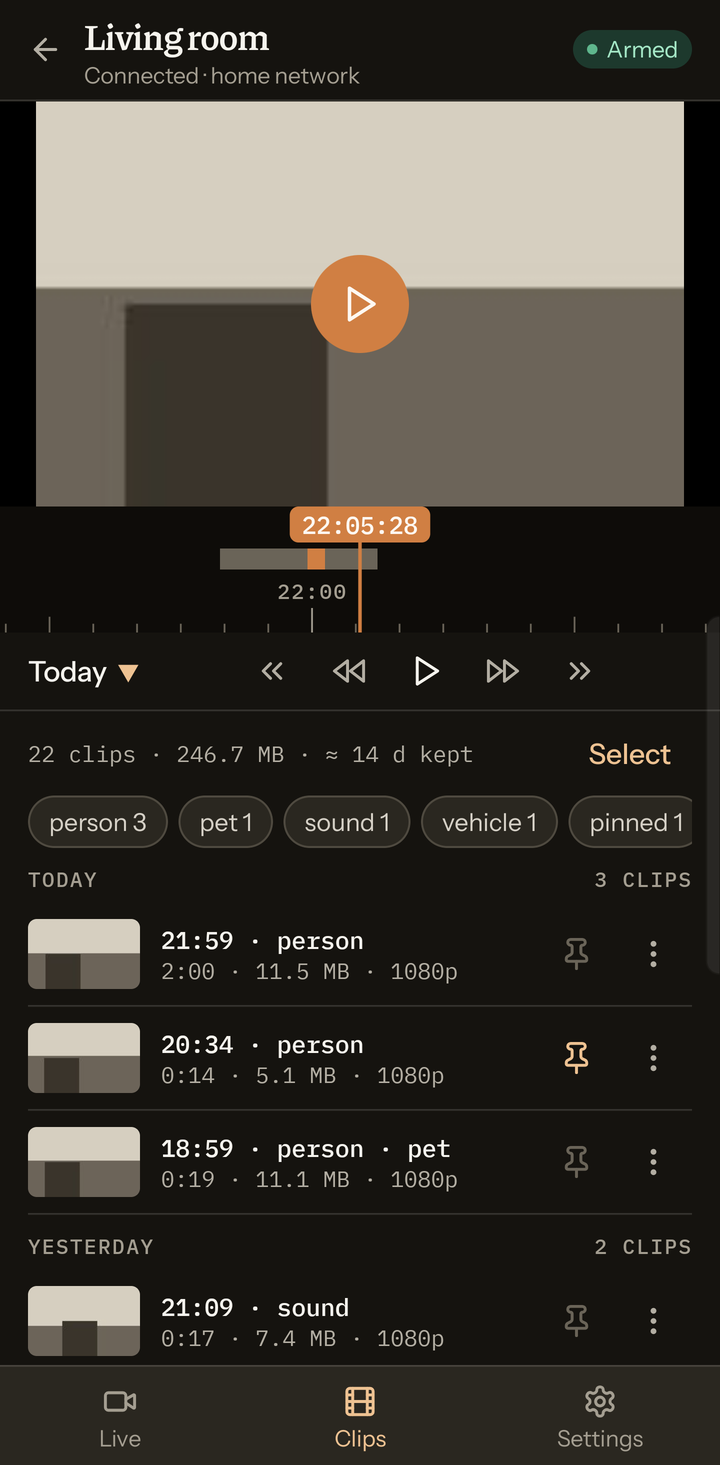
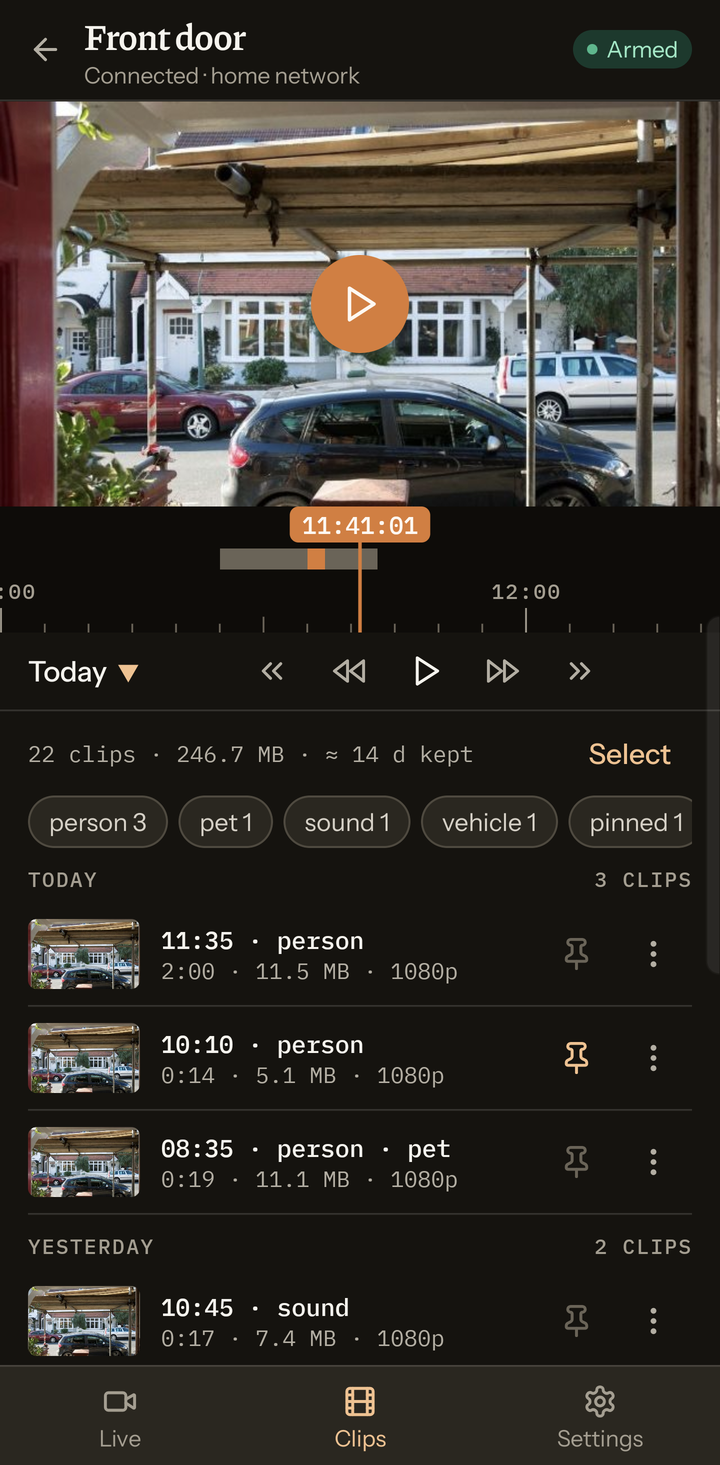
Show a real doorstep scene in the debug screen gallery and README screenshots
The gallery's live view and clip thumbnails draw a CC BY photo (debug assets only)
instead of flat blocks, and the sample camera is renamed Front door.

Claude-Session: https://claude.ai/code/session_01CuN6WwxuSSDywsQhMsyLhZ

diff --git a/app/src/debug/kotlin/com/homecam/app/debug/GalleryActivity.kt b/app/src/debug/kotlin/com/homecam/app/debug/GalleryActivity.kt
@@ -1,8 +1,10 @@
 package com.homecam.app.debug
 
 import android.graphics.Bitmap
+import android.graphics.BitmapFactory
 import android.graphics.Canvas
 import android.graphics.Paint
+import android.graphics.Rect
 import android.os.Bundle
 import androidx.activity.ComponentActivity
 import androidx.activity.compose.setContent
@@ -63,6 +65,7 @@ class GalleryActivity : ComponentActivity() {
     override fun onCreate(savedInstanceState: Bundle?) {
         super.onCreate(savedInstanceState)
         enableEdgeToEdge()
+        scene = assets.open("gallery/front-door.jpg").use(BitmapFactory::decodeStream)
         val screen = intent.getStringExtra("screen") ?: "viewer_home"
         val dark = intent.getBooleanExtra("dark", false)
         setContent {
@@ -77,12 +80,12 @@ private const val NOW = 1_790_917_200_000L
 private const val MINUTE = 60_000L
 
 private val cameras = listOf(
-    CameraEntity("Y1TM-4JVY-9K8F", ByteArray(0), "Living room", "192.168.0.18", 8443, "100.64.0.9", 0, NOW - 90 * MINUTE, System.currentTimeMillis() - 2 * MINUTE, lastArmed = 1, lastRecordingMode = "Continuous"),
+    CameraEntity("Y1TM-4JVY-9K8F", ByteArray(0), "Front door", "192.168.0.18", 8443, "100.64.0.9", 0, NOW - 90 * MINUTE, System.currentTimeMillis() - 2 * MINUTE, lastArmed = 1, lastRecordingMode = "Continuous"),
     CameraEntity("Q7RD-2MXA-HH3C", ByteArray(0), "Garage", "192.168.0.31", 8443, "", 0, NOW - 9000 * MINUTE, System.currentTimeMillis() - 3 * 24 * 60 * MINUTE, lastArmed = 0, lastRecordingMode = "Detection"),
 )
 
 private val settings = SettingsSnapshot.newBuilder()
-    .setArmed(true).setAlias("Living room").setMicrophone(true)
+    .setArmed(true).setAlias("Front door").setMicrophone(true)
     .setDetectionMode(DetectionMode.newBuilder().setPerson(true).setVehicle(true).setPet(true))
     .setSoundDetection(SoundDetection.newBuilder().setEnabled(true))
     .setSoundRecognition(SoundRecognition.newBuilder().addClasses("alarm").addClasses("glass"))
@@ -135,21 +138,21 @@ private val viewers = listOf(
         .setLastSeenMs(System.currentTimeMillis() - 2000 * MINUTE).setSessions30D(3).build(),
 )
 
+// A doorstep photo standing in for the camera feed; see THIRD_PARTY.md for its license.
+private lateinit var scene: Bitmap
+
+/** The scene, cropped a little differently per clip so the list does not repeat one frame. */
 private fun thumbnail(seed: String): ByteArray {
-    val bitmap = Bitmap.createBitmap(160, 100, Bitmap.Config.ARGB_8888)
-    val canvas = Canvas(bitmap)
-    canvas.drawColor(0xFF6E6558.toInt())
-    val paint = Paint().apply { color = 0xFFD9CFBE.toInt() }
-    canvas.drawRect(0f, 0f, 160f, 44f + (seed.hashCode() and 15), paint)
-    paint.color = 0xFF3A342B.toInt()
-    canvas.drawRect(20f + (seed.hashCode() and 31), 50f, 70f + (seed.hashCode() and 31), 100f, paint)
+    val bitmap = Bitmap.createBitmap(640, 360, Bitmap.Config.ARGB_8888)
+    val inset = seed.hashCode() and 63
+    val source = Rect(inset, inset * 9 / 16, scene.width - (63 - inset), scene.height - (63 - inset) * 9 / 16)
+    Canvas(bitmap).drawBitmap(scene, source, Rect(0, 0, 640, 360), Paint(Paint.FILTER_BITMAP_FLAG))
     return ByteArrayOutputStream().also { bitmap.compress(Bitmap.CompressFormat.JPEG, 80, it) }.toByteArray()
 }
 
 @Composable
-private fun Room() {
-    val bytes = remember { thumbnail("room") }
-    val image = remember { android.graphics.BitmapFactory.decodeByteArray(bytes, 0, bytes.size).asImageBitmap() }
+private fun Scene() {
+    val image = remember { scene.asImageBitmap() }
     Image(image, null, Modifier.fillMaxSize(), contentScale = ContentScale.Fit)
 }
 
@@ -185,7 +188,7 @@ private fun controls(siren: Boolean = false, from: RuntimeStatus = status) = Liv
 private fun Shell(tab: CameraTab, armed: Boolean = true, content: @Composable () -> Unit) {
     var current by remember { mutableStateOf(tab) }
     CameraShell(
-        "Living room", "Connected · home network", armed, current, { current = it }, {},
+        "Front door", "Connected · home network", armed, current, { current = it }, {},
         chrome = !(com.homecam.app.ui.kit.isLandscape() && current != CameraTab.SETTINGS), content = content,
     )
 }
@@ -197,22 +200,22 @@ private fun Screen(name: String) {
         "viewer_home" -> ViewerHomeScreen(cameras, {}, {}, {}, {}, {}, starred = "Y1TM-4JVY-9K8F")
         "viewer_home_empty" -> ViewerHomeScreen(emptyList(), {}, {}, {}, {}, {})
         "live" -> Shell(CameraTab.LIVE) {
-            LiveScreen(LiveState.Connected("amber-otter-seven", null, status, null, "Home network"), controls(), {}) { Room() }
+            LiveScreen(LiveState.Connected("amber-otter-seven", null, status, null, "Home network"), controls(), {}) { Scene() }
         }
         "live_paused" -> Shell(CameraTab.LIVE) {
-            LiveScreen(LiveState.Connected("amber-otter-seven", null, pausedStatus, null, "Home network"), controls(from = pausedStatus), {}) { Room() }
+            LiveScreen(LiveState.Connected("amber-otter-seven", null, pausedStatus, null, "Home network"), controls(from = pausedStatus), {}) { Scene() }
         }
         "live_siren" -> Shell(CameraTab.LIVE) {
-            LiveScreen(LiveState.Connected("amber-otter-seven", null, status, null, "Remote"), controls(siren = true), {}) { Room() }
+            LiveScreen(LiveState.Connected("amber-otter-seven", null, status, null, "Remote"), controls(siren = true), {}) { Scene() }
         }
         "live_waiting" -> Shell(CameraTab.LIVE) {
             LiveScreen(LiveState.Connected("amber-otter-seven", null, status, null), null, {})
         }
-        "live_finding" -> Shell(CameraTab.LIVE, armed = false) { LiveScreen(LiveState.Locating("Living room"), null, {}) }
+        "live_finding" -> Shell(CameraTab.LIVE, armed = false) { LiveScreen(LiveState.Locating("Front door"), null, {}) }
         "live_failed" -> Shell(CameraTab.LIVE) {
             LiveScreen(
                 LiveState.Failed(
-                    "Living room is not answering on this network, and it has no remote address. To watch from " +
+                    "Front door is not answering on this network, and it has no remote address. To watch from " +
                         "anywhere else, connect once at home and set its Tailscale name under Settings → Remote address."
                 ),
                 null, {},
@@ -262,7 +265,7 @@ private fun Settings(snapshot: SettingsSnapshot, remote: String) {
 @Composable
 private fun CameraHome(watcher: String?) {
     CameraHomeScreen(
-        alias = "Living room", accessCount = 2, liveViewerLabel = watcher, serving = true, armed = true,
+        alias = "Front door", accessCount = 2, liveViewerLabel = watcher, serving = true, armed = true,
         hardwareBacked = true, recordingMode = RecordingMode.CONTINUOUS, projectedDays = 14.0,
         onArmedChange = {}, onRecordingMode = {}, protection = com.homecam.core.health.HealthConfig(), onProtection = {},
         onManage = {}, onPair = {}, onLog = {}, onNetwork = {},

diff --git a/THIRD_PARTY.md b/THIRD_PARTY.md
@@ -34,3 +34,10 @@ Apache License 2.0. The license text is included once, in [Apache-2.0.txt](THIRD
 | COCO labels, `labelmap.txt` | `models/labelmap.txt`, `app/src/main/assets/labelmap.txt` | The 90 COCO labels extracted from the EfficientDet-Lite0 model's embedded metadata. | Apache-2.0 |
 | YAMNet, `yamnet.tflite` | `models/yamnet.tflite`, `app/src/main/assets/yamnet.tflite` | Google's public MediaPipe model host. AudioSet 521-class audio classifier, 16 kHz mono. | Apache-2.0 |
 | AudioSet labels, `yamnet_labels.txt` | `models/yamnet_labels.txt`, `app/src/main/assets/yamnet_labels.txt` | The 521 AudioSet class names extracted from the YAMNet model's `yamnet_label_list.txt` entry. | Apache-2.0 |
+
+## Sample image (debug build only)
+
+`app/src/debug/assets/gallery/front-door.jpg` is the scene the debug `GalleryActivity` shows in
+place of a camera feed. It is not in release builds. Cropped from
+["View from front door"](https://www.flickr.com/photos/27532236@N00/6841655600) by humbert15,
+[CC BY 2.0](https://creativecommons.org/licenses/by/2.0/).

diff --git a/README.md b/README.md
@@ -6,7 +6,7 @@ Two phones, and no cloud account between them. Pairing pins each viewer's key, t
 
 ## Screenshots
 
-Sample data from the debug build's screen gallery (`GalleryActivity`), captured on a phone.
+Sample data from the debug build's screen gallery (`GalleryActivity`), captured on a phone. The camera feed is a stand-in photo, ["View from front door"](https://www.flickr.com/photos/27532236@N00/6841655600) by humbert15 (CC BY 2.0), shipped only in debug builds.
 
 <table>
   <tr>
